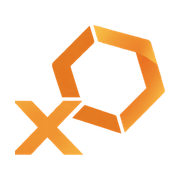
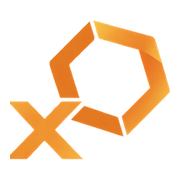
Changes

diff --git a/src/routes/__root.tsx b/src/routes/__root.tsx
@@ -95,9 +95,9 @@ export const Route = createRootRouteWithContext<{ queryClient: QueryClient }>()(
       { rel: "author", href: "https://www.linkedin.com/in/nareshyegireddi" },
       { rel: "me", href: "https://www.linkedin.com/in/nareshyegireddi" },
       { rel: "me", href: "https://github.com/nashyegi" },
-      { rel: "icon", href: "/favicon.png?v=xhexagon2", type: "image/png", sizes: "192x192" },
-      { rel: "icon", href: "/favicon.ico?v=xhexagon2", sizes: "48x48" },
-      { rel: "apple-touch-icon", href: "/apple-touch-icon.png?v=xhexagon2", sizes: "180x180" },
+      { rel: "icon", href: "/favicon.png?v=xhexagon3", type: "image/png", sizes: "192x192" },
+      { rel: "icon", href: "/favicon.ico?v=xhexagon3", sizes: "48x48" },
+      { rel: "apple-touch-icon", href: "/apple-touch-icon.png?v=xhexagon3", sizes: "180x180" },
     ],
   }),
   shellComponent: RootShell,

diff --git a/src/routes/index.tsx b/src/routes/index.tsx
@@ -51,7 +51,7 @@ export const Route = createFileRoute("/")({
               "@id": "https://hyperhex.dev/#org",
               name: "HyperHex",
               url: "https://hyperhex.dev/",
-              logo: "https://hyperhex.dev/apple-touch-icon.png",
+              logo: "https://hyperhex.dev/favicon.png",
               founder: { "@id": PERSON["@id"] },
               sameAs: ["https://github.com/nashyegi/hyperhex"],
             },
